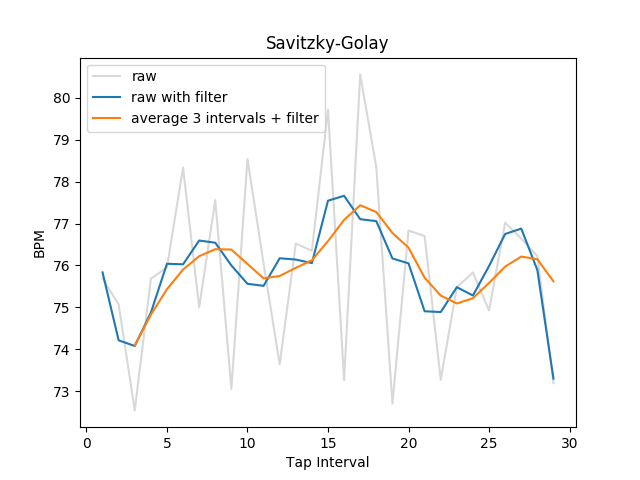
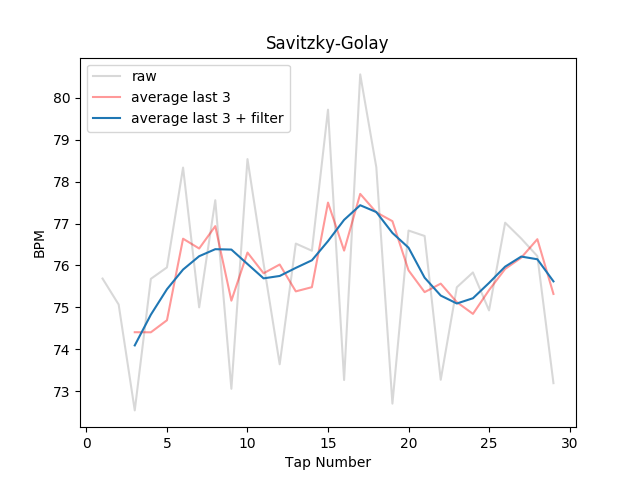
Average as baseline

Changed region(s): [[0.1562, 0.4062, 0.875, 0.7812], [0.1562, 0.1875, 0.5, 0.2812], [0.4375, 0.9375, 0.5938, 1.0]]

diff --git a/record.py b/record.py
@@ -66,8 +66,10 @@ if __name__ == '__main__':
 	savgol_order = 3
 
 	plt.plot(range(1, N), to_bpm(sliding_difference(timestamps,1)), label="raw", color="gray", alpha=0.3)
+	plt.plot(range(3, N), to_bpm(sliding_difference(timestamps, 3)), label="average last 3", color="red", alpha=0.4)
 
-	diffs = [(1, "raw with filter"), (3, "average 3 intervals + filter")]
+	#(1, "raw with filter"),
+	diffs = [(3, "average last 3 + filter")]
 	for diff, label in diffs:
 
 		bpms = to_bpm(sliding_difference(timestamps, diff, mean=stats.hmean))
@@ -79,7 +81,7 @@ if __name__ == '__main__':
 	plt.legend()
 	plt.title("Savitzky-Golay")
 	plt.ylabel("BPM")
-	plt.xlabel("Tap Interval")
+	plt.xlabel("Tap Number")
 	plt.savefig("example.png")
 	plt.show()
 
